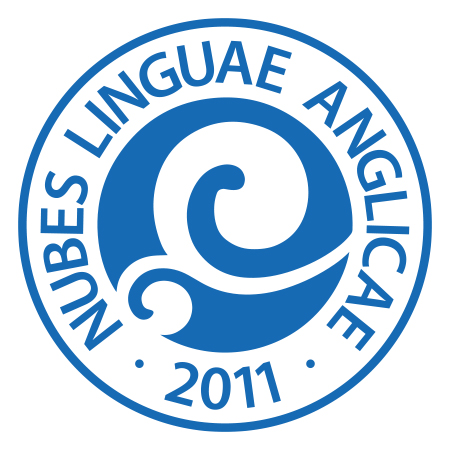
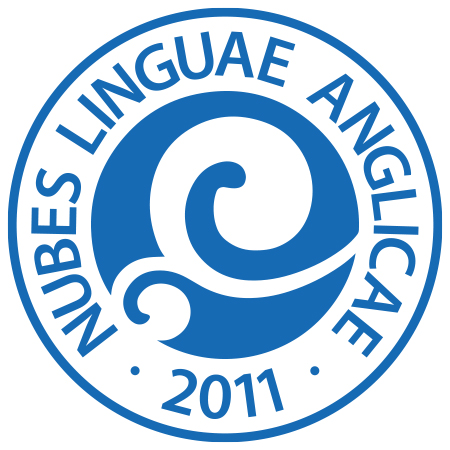
Update

diff --git a/index.html b/index.html
@@ -72,54 +72,16 @@
     </header>
 
     <!-- Page contents -->
-<!--     <div class="bs-docs-header" id="content">
-      <div class="container">
-        <h1>Y-English GRE Test Preparation Framework</h1>
-        <p>Development Preview</p>
-      </div>
-    </div>
-
-    <div class="container bs-docs-container">
-      <form>
-        <div class="form-group">
-          <label class="lead" for="passkey">Your Passkey</label>
-          <div class="input-group input-group-lg">
-            <input type="text" class="form-control" placeholder="Enter passkey here...">
-            <span class="input-group-btn">
-              <button type="submit" class="btn btn-default">Submit</button>
-            </span>
-          </div>
-        </div>
-      </form>
-    </div> -->
-
-    <!-- Page contents -->
     <main class="bs-docs-masthead" id="content" role="main">
       <div class="container">
         <div class="logo">
           <img src="./img/Avatar-1.jpg" alt="Avatar" class="img-circle img-thumbnail">
         </div>
         <p class="lead">Y-English GRE Test Preparation Framework</p>
-        <p class="version">Development Preview</p>
         <p class="lead"><a href="./framework/" class="btn btn-outline-inverse btn-lg" role="button">View Your Y-GRE Frame</a></p>
+        <p class="version">Development Preview</p>
       </div>
     </main>
-
-<!--     <div class="bs-docs-featurette">
-      <h2 class="bs-docs-featurette-title">Your Passkey</h2>
-      <p class="lead">Please provide your passkey.</p>
-      <form>
-        <div class="form-group">
-          <label class="lead" for="passkey">Your Passkey</label>
-          <div class="input-group input-group-lg">
-            <input type="text" class="form-control" placeholder="Enter passkey here...">
-            <span class="input-group-btn">
-              <button type="submit" class="btn btn-default">Submit</button>
-            </span>
-          </div>
-        </div>
-      </form>
-    </div> -->
 
     <!-- Footer -->
     <footer class="bs-docs-footer" role="contentinfo">

diff --git a/assets/css/customize.css b/assets/css/customize.css
@@ -104,7 +104,7 @@ h1, .h1, h2, .h2, h3, .h3, h4, .h4, .lead {
     margin: 0 auto 30px;
 }
 .logo img {
-    width: 240px;
+    width: 180px;
 }
 
 /* Progress bar */
